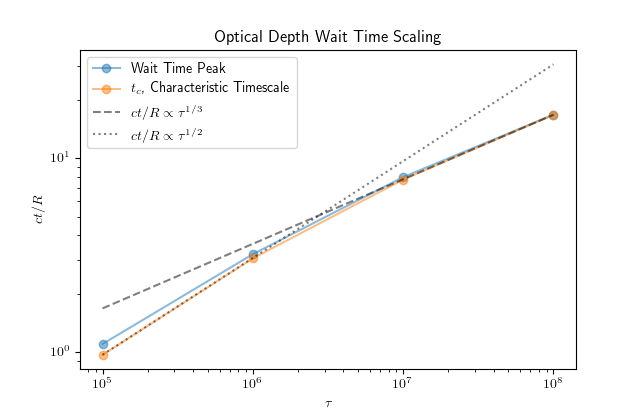
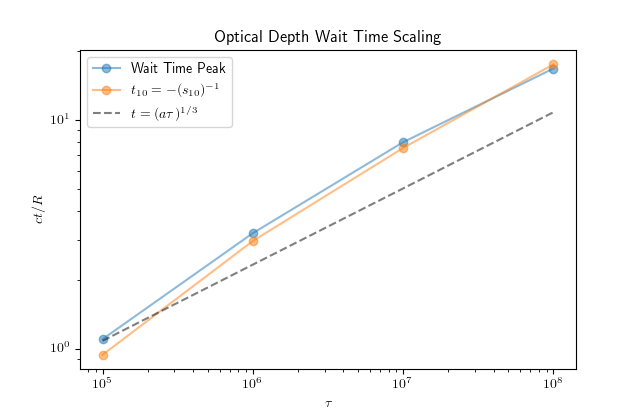
setting up efunctions for eigenmode convergence test

diff --git a/eigencode/scaling.py b/eigencode/scaling.py
@@ -40,15 +40,15 @@ for k, filename in enumerate(filenames):
     data[2][k] = fc.clight/p.radius * 1/(-ssoln[0][0]) # Lowest order eigenfrequency
     data[3][k] = p.a
 
-plt.plot(data[0], data[1], marker='o', alpha=0.5, label='Wait Time Peak')
-plt.plot(data[0], data[2], marker='o', alpha=0.5, label=r'$t_{10} = -(s_{10})^{-1}$')
+plt.plot(data[0]/data[3], data[1], marker='o', alpha=0.5, label='Wait Time Peak')
+plt.plot(data[0]/data[3], data[2], marker='o', alpha=0.5, label=r'$t_{10} = -(s_{10})^{-1}$')
 
-plt.plot(data[0], fc.clight/p.radius*(data[0])**(1./3), alpha=0.5, label=r'$t = (a\tau)^{1/3}$', ls='--', c='k')
-plt.plot(data[0], fc.clight/p.radius*(data[0])**(1./2), alpha=0.5, label=r'$t = (a\tau)^{1/2}$', ls=':', c='k')
+plt.plot(data[0]/data[3], fc.clight/p.radius*(data[0])**(1./3), alpha=0.5, label=r'$t = (a\tau)^{1/3}$', ls='--', c='k')
+#plt.plot(data[0], fc.clight/p.radius*(data[0])**(1./2), alpha=0.5, label=r'$t = (a\tau)^{1/2}$', ls=':', c='k')
 plt.xscale('log')
 plt.yscale('log')
 plt.legend()
 plt.ylabel('$ct/R$')
-plt.xlabel(r'$a\tau$')
+plt.xlabel(r'$\tau$')
 plt.title('Optical Depth Wait Time Scaling')
 plt.show()

diff --git a/eigencode/efunctions.py b/eigencode/efunctions.py
@@ -8,7 +8,7 @@ import warnings
 import pdb
 
 # max number of solutions at each n
-nsolnmax=20                                          # maximum number of solutions for each n.
+nsolnmax=30                                          # maximum number of solutions for each n.
 
 # integration accuracy
 relative_tol=1.e-10 # 1.49012e-8
@@ -382,7 +382,7 @@ def main():
   alpha_abs=0.0
   prob_dest=0.0
   xsource=0.0
-  nmax=6+1
+  nmax=12+1
   nsigma=512
   nomega=10
   p = parameters(temp,tau0,radius,energy,xsource,alpha_abs,prob_dest,nsigma,nmax)
